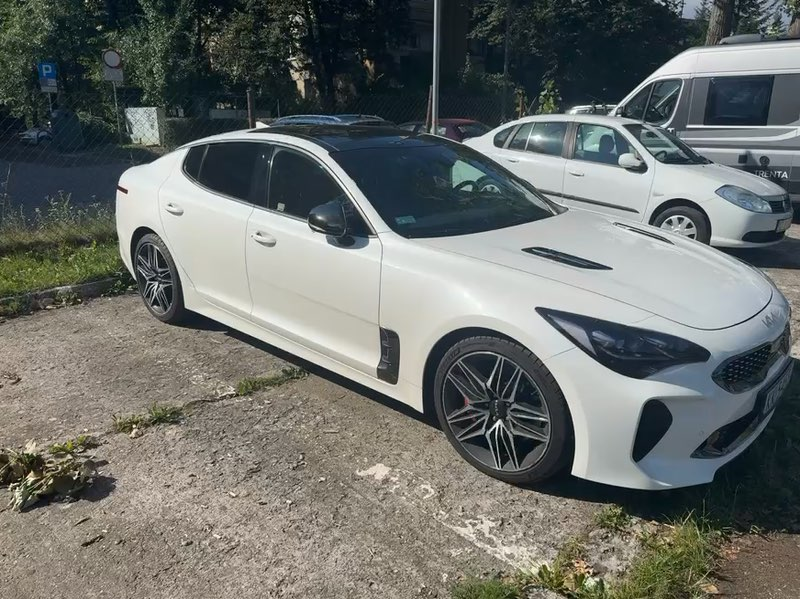
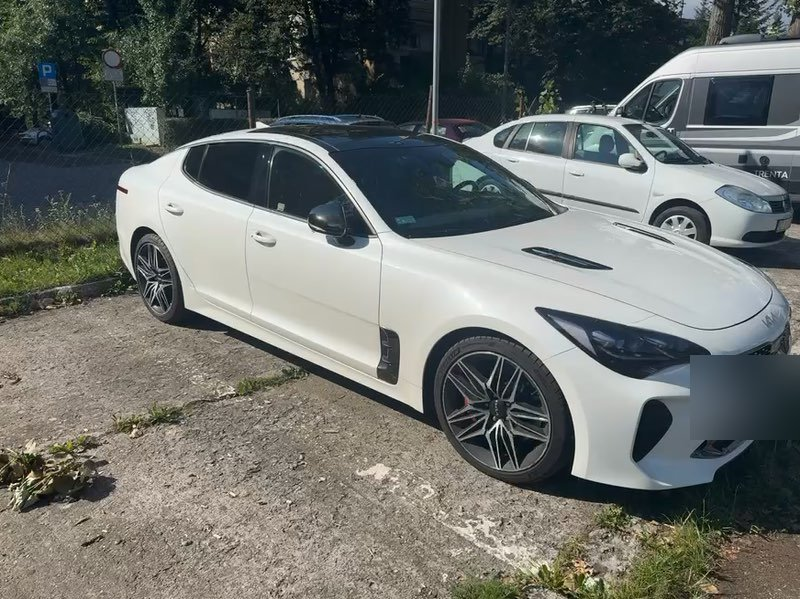
Zamaż tablicę rejestracyjną na wszystkich zdjęciach; tymczasowo ukryj sekcję wideo

Changed region(s): [[0.8438, 0.571, 1.0, 0.7513]]

diff --git a/index.html b/index.html
@@ -22,7 +22,6 @@
       <a href="#historia">Historia</a>
       <a href="#detale">Detale</a>
       <a href="#galeria">Galeria</a>
-      <a href="#wideo">Wideo</a>
       <a href="#kontakt" class="nav-cta">Kontakt</a>
     </nav>
     <button class="nav-toggle" id="navToggle" aria-label="Menu">
@@ -134,7 +133,7 @@
   </div>
 </section>
 
-<section class="video-section" id="wideo">
+<section class="video-section" id="wideo" style="display:none;">
   <div class="video-inner">
     <p class="section-label light">04 — Wideo</p>
     <h2 class="video-title">Detale w ruchu</h2>
